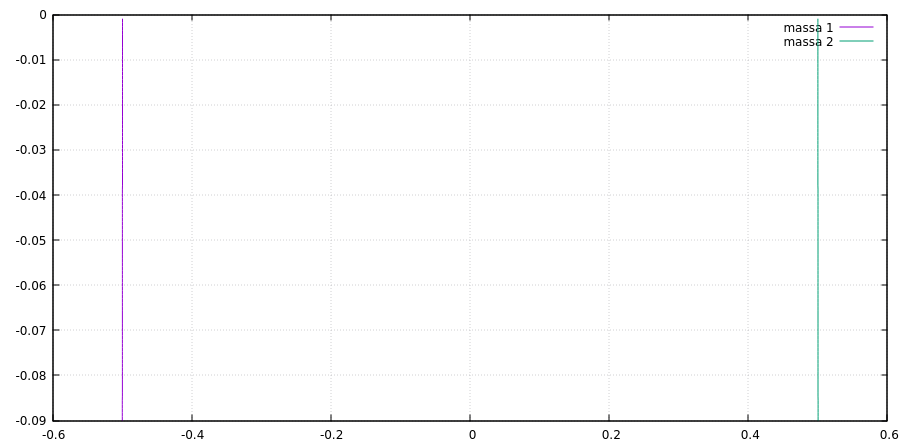
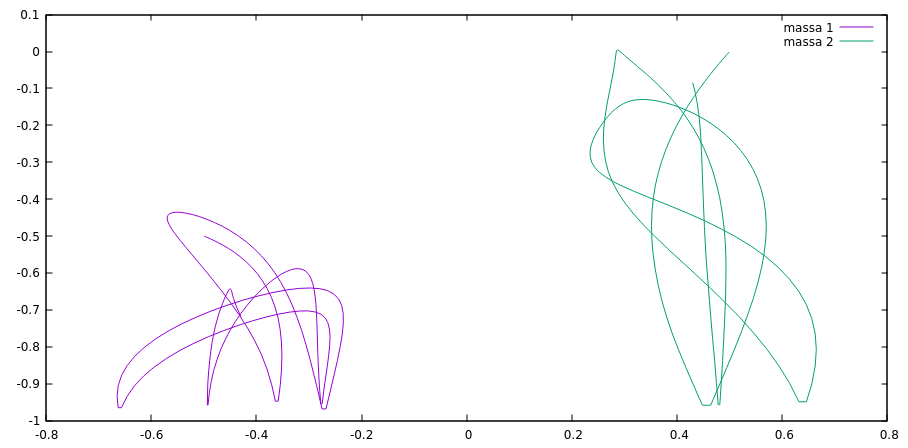
-Novo gráphico e tabela de resultados esperados para o experimento massa e mola

diff --git a/test-springmass.cpp b/test-springmass.cpp
@@ -15,15 +15,15 @@ int main(int argc, char** argv)
   const double damping = 0.01;
   const double stiffness = 0.5;
 
-  Mass m1(Vector2(-.5,0), Vector2(), mass, radius) ;
-  Mass m2(Vector2(+.5,0), Vector2(), mass, radius) ;
+  Mass m1(Vector2(-0.5,-0.5), Vector2(), mass, radius) ;
+  Mass m2(Vector2(+0.5,0), Vector2(), mass, radius) ;
 /* COMPLETE: TYPE YOUR CODE HERE */
   springmass.newMass(m1);
   springmass.newMass(m2);
   springmass.newSpring(naturalLength, damping, stiffness, 0, 1);
 
   const double dt = 1.0/30 ;
-  for (int i = 0 ; i < 100 ; ++i) {
+  for (int i = 0 ; i < 200 ; ++i) {
     springmass.step(dt) ;
     springmass.display() ;
   }

diff --git a/test-springmass-graphics.cpp b/test-springmass-graphics.cpp
@@ -54,7 +54,7 @@ int main(int argc, char** argv)
   const double damping = 0.01;
   const double stiffness = 0.75;
 
-  Mass m1(Vector2(-0.5,0), Vector2(), mass, radius) ;
+  Mass m1(Vector2(-0.5,0.5), Vector2(), mass, radius) ;
   Mass m2(Vector2(+0.5,0), Vector2(), mass, radius) ;
   springmass.newMass(m1);
   springmass.newMass(m2);

diff --git a/README.md b/README.md
@@ -80,25 +80,25 @@ Para compilar o programa, basta fazer uso do Makefile incluído nesse repositór
 
    m1x      m1y        m2x     m2y
 
--0.500003 -0.0009 ~ 0.500003 -0.0009
+-0.499165 -0.500483 0.499165 -0.00131748
 
--0.500006 -0.0018 ~ 0.500006 -0.0018
+-0.496681 -0.50194 0.496681 -0.00525973
 
--0.500008 -0.0027 ~ 0.500008 -0.0027
+-0.492605 -0.504403 0.492605 -0.0117973
 
--0.500011 -0.0036 ~ 0.500011 -0.0036
+-0.487034 -0.507917 0.487034 -0.0208831
 
--0.500014 -0.0045 ~ 0.500014 -0.0045
+-0.480093 -0.512546 0.480093 -0.0324537
 
--0.500017 -0.0054 ~ 0.500017 -0.0054
+-0.471939 -0.51837 0.471939 -0.0464303
 
--0.500019 -0.0063 ~ 0.500019 -0.0063
+-0.462758 -0.525479 0.462758 -0.0627211
 
--0.500022 -0.0072 ~ 0.500022 -0.0072
+-0.452754 -0.533977 0.452754 -0.0812228
 
--0.500025 -0.0081 ~ 0.500025 -0.0081
+-0.442153 -0.543977 0.442153 -0.101823
 
--0.500028 -0.009  ~ 0.500028 -0.009
+-0.431191 -0.555596 0.431191 -0.124404
 
 (parte dos resultados foram omitidos)
 (formatação alterada para facilitar leitura)
